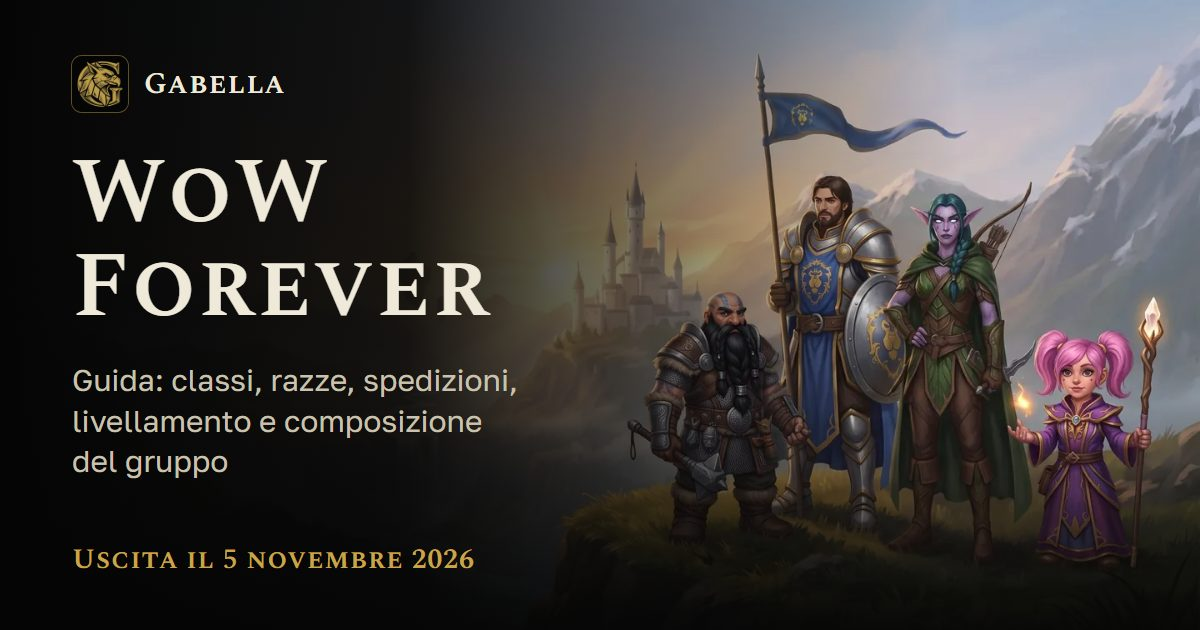
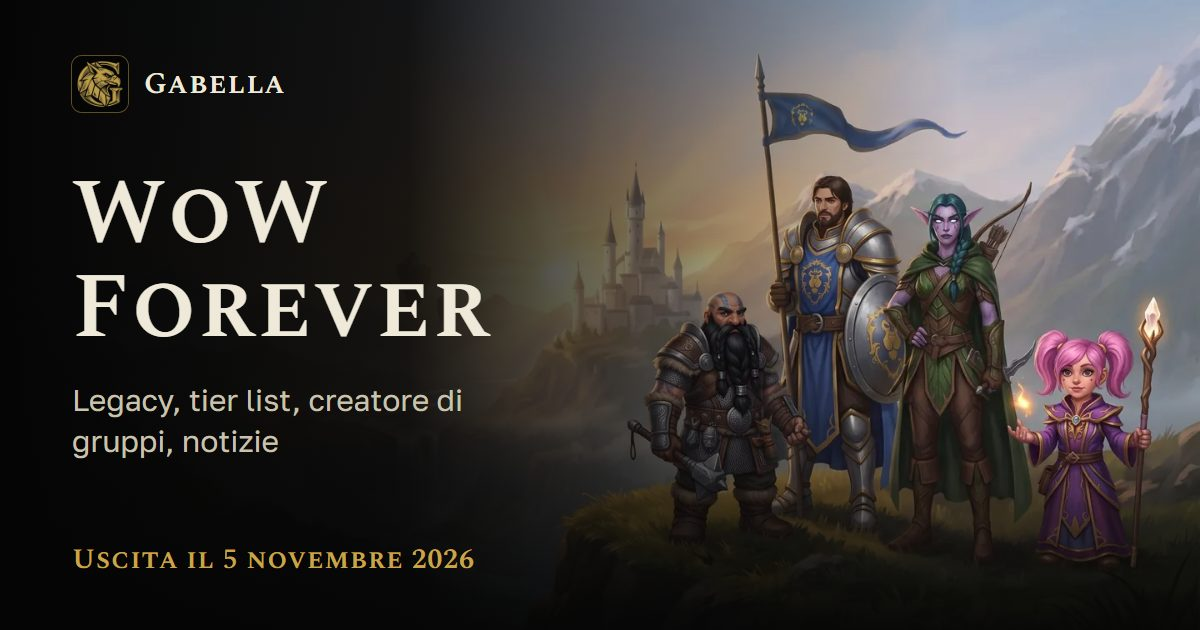
Превью главной гида для опытных игроков: Legacy, тир-лист, конструктор группы, время старта по языку; twitter:title/description/image на всех страницах

Changed region(s): [[0.0617, 0.2413, 0.4008, 0.5429], [0.0617, 0.573, 0.4317, 0.754]]

diff --git a/seo.py b/seo.py
@@ -217,7 +217,16 @@ RACE_D = t('{n} в WoW Forever: четыре расовые способност
            'WoW Forever {n} guide: four racial abilities, available and best classes, capital {cap}, starting zone {zone}.',
            '{n} у WoW Forever: чотири расові здібності, доступні та найкращі класи, столиця {cap}, стартова зона {zone}.')
 AND = {'ru': ' и ', 'en': ' and ', 'uk': ' і '}
-langs.fill([HOME_NAME, SITE_NAME, TOOLS_NAME, PRIVACY_NAME, PLAY_NAME, ROSTER_NAME, PROFILE_NAME, PLAYER_NAME, META, CLASS_T, CLASS_T_SHORT, CLASS_D, RACE_T, RACE_T_SHORT, RACE_D, AND])   # new languages: i18n/<lang>.json
+# Link previews (og:*, twitter:*) that differ from the search title and description: what a player sees in Discord and chats
+OG = {
+    '': (t('WoW Forever: Legacy, тир-лист, конструктор группы',
+           'WoW Forever: Legacy, Tier List, Group Builder',
+           'WoW Forever: Legacy, тір-лист, конструктор групи'),
+         t('Legacy: 65 испытаний и перки трёх деревьев. Тир-лист классов по бете, конструктор группы и рейда, новости. Старт 04.11 в 23:00 UTC (по Киеву 5.11, 01:00).',
+           'Legacy: 65 challenges and perks in three trees. Class tier list from beta data, group and raid builder, news. Launch Nov 4 at 23:00 UTC.',
+           'Legacy: 65 випробувань і перки трьох дерев. Тір-лист класів за бетою, конструктор групи й рейду, новини. Старт 04.11 о 23:00 UTC (за Києвом 5.11, 01:00).')),
+}
+langs.fill([HOME_NAME, SITE_NAME, TOOLS_NAME, PRIVACY_NAME, PLAY_NAME, ROSTER_NAME, PROFILE_NAME, PLAYER_NAME, META, CLASS_T, CLASS_T_SHORT, CLASS_D, RACE_T, RACE_T_SHORT, RACE_D, AND, OG])   # new languages: i18n/<lang>.json
 
 
 def listing(xs, lang):
@@ -356,12 +365,19 @@ def apply(html, path, lang, title, desc):
     d = escape(desc, quote=True)
     html = set_attr(html, r'(<title>).*?(</title>)', a, path)
     html = set_attr(html, r'(<meta name="description" content=")[^"]*(">)', d, path)
+    if path in OG and lang in OG[path][0]:
+        a, d = escape(OG[path][0][lang], quote=True), escape(OG[path][1][lang], quote=True)
     html = set_attr(html, r'(<meta property="og:title" content=")[^"]*(">)', a, path)
     html = set_attr(html, r'(<meta property="og:description" content=")[^"]*(">)', d, path)
     if 'og:image:alt' in html:
         html = set_attr(html, r'(<meta property="og:image:alt" content=")[^"]*(">)', a, path)
     else:
         html = html.replace('<meta name="twitter:card"', f'<meta property="og:image:alt" content="{a}">\n<meta name="twitter:card"', 1)
+    img = re.search(r'<meta property="og:image" content="([^"]+)"', html)
+    html = re.sub(r'<meta name="twitter:(?:title|description|image)" content="[^"]*">\n', '', html)
+    tw = f'<meta name="twitter:title" content="{a}">\n<meta name="twitter:description" content="{d}">\n'
+    tw += f'<meta name="twitter:image" content="{img[1]}">\n' if img else ''
+    html = re.sub(r'(<meta name="twitter:card"[^>]*>\n)', lambda m: m[1] + tw, html, count=1)
     alt = ''.join(f'<meta property="og:locale:alternate" content="{LOCALE[l]}">\n' for l in LANGS if l != lang and not build.only_lang(path))
     html = re.sub(r'<meta property="og:locale:alternate"[^>]*>\n', '', html)
     html = html.replace('<meta property="og:site_name"', alt + '<meta property="og:site_name"', 1)

diff --git a/tools/make_og.py b/tools/make_og.py
@@ -16,18 +16,18 @@ CHROME = r'C:\Program Files\Google\Chrome\Application\chrome.exe'
 LANGS = langs.LANGS
 BRAND = 'Gabella'
 START = {'ru': 'Старт 5 ноября 2026', 'en': 'Launch November 4–5, 2026', 'uk': 'Старт 5 листопада 2026',
-         'de': 'Start am 5. November 2026', 'fr': 'Lancement le 5 novembre 2026', 'es': 'Lanzamiento: 5 de noviembre de 2026',
-         'pt': 'Lançamento em 5 de novembro de 2026', 'it': 'Uscita il 5 novembre 2026', 'pl': 'Start 5 listopada 2026'}
+         'de': 'Start am 5. November 2026', 'fr': 'Lancement le 5 novembre 2026', 'es': 'Lanzamiento: 4–5 de noviembre de 2026',
+         'pt': 'Lançamento em 4 de novembro de 2026', 'it': 'Uscita il 5 novembre 2026', 'pl': 'Start 5 listopada 2026'}
 HOME = {'t': {l: 'WoW Forever' for l in langs.ALL},
-        'd': {'ru': 'Гид: классы, расы, подземелья, прокачка и сборка группы',
-              'en': 'Guide: classes, races, dungeons, leveling and party building',
-              'uk': 'Гід: класи, раси, підземелля, прокачування та збір групи',
-              'de': 'Guide: Klassen, Völker, Dungeons, Leveln und Gruppenaufbau',
-              'fr': 'Guide : classes, races, donjons, progression et composition de groupe',
-              'es': 'Guía: clases, razas, mazmorras, subida de nivel y composición de grupo',
-              'pt': 'Guia: classes, raças, masmorras, evolução e montagem de grupo',
-              'it': 'Guida: classi, razze, spedizioni, livellamento e composizione del gruppo',
-              'pl': 'Poradnik: klasy, rasy, dungeony, levelowanie i skład grupy'}}
+        'd': {'ru': 'Legacy, тир-лист, конструктор группы, новости',
+              'en': 'Legacy, tier list, group builder, news',
+              'uk': 'Legacy, тір-лист, конструктор групи, новини',
+              'de': 'Legacy, Tierliste, Gruppenplaner, News',
+              'fr': 'Legacy, tier list, créateur de groupe, actus',
+              'es': 'Legacy, tier list, creador de grupos, noticias',
+              'pt': 'Legacy, tier list, montador de grupo, notícias',
+              'it': 'Legacy, tier list, creatore di gruppi, notizie',
+              'pl': 'Legacy, tier lista, kreator drużyny, newsy'}}
 TOOLS = {'t': langs.derive({'ru': 'Инструменты', 'en': 'Tools', 'uk': 'Інструменти'}),
          'd': {'ru': 'Рамки группы, рейдовая сетка, сравнение классов и рас, поиск по гиду',
                'en': 'Party frames, raid grid, class and race comparison, guide search',
